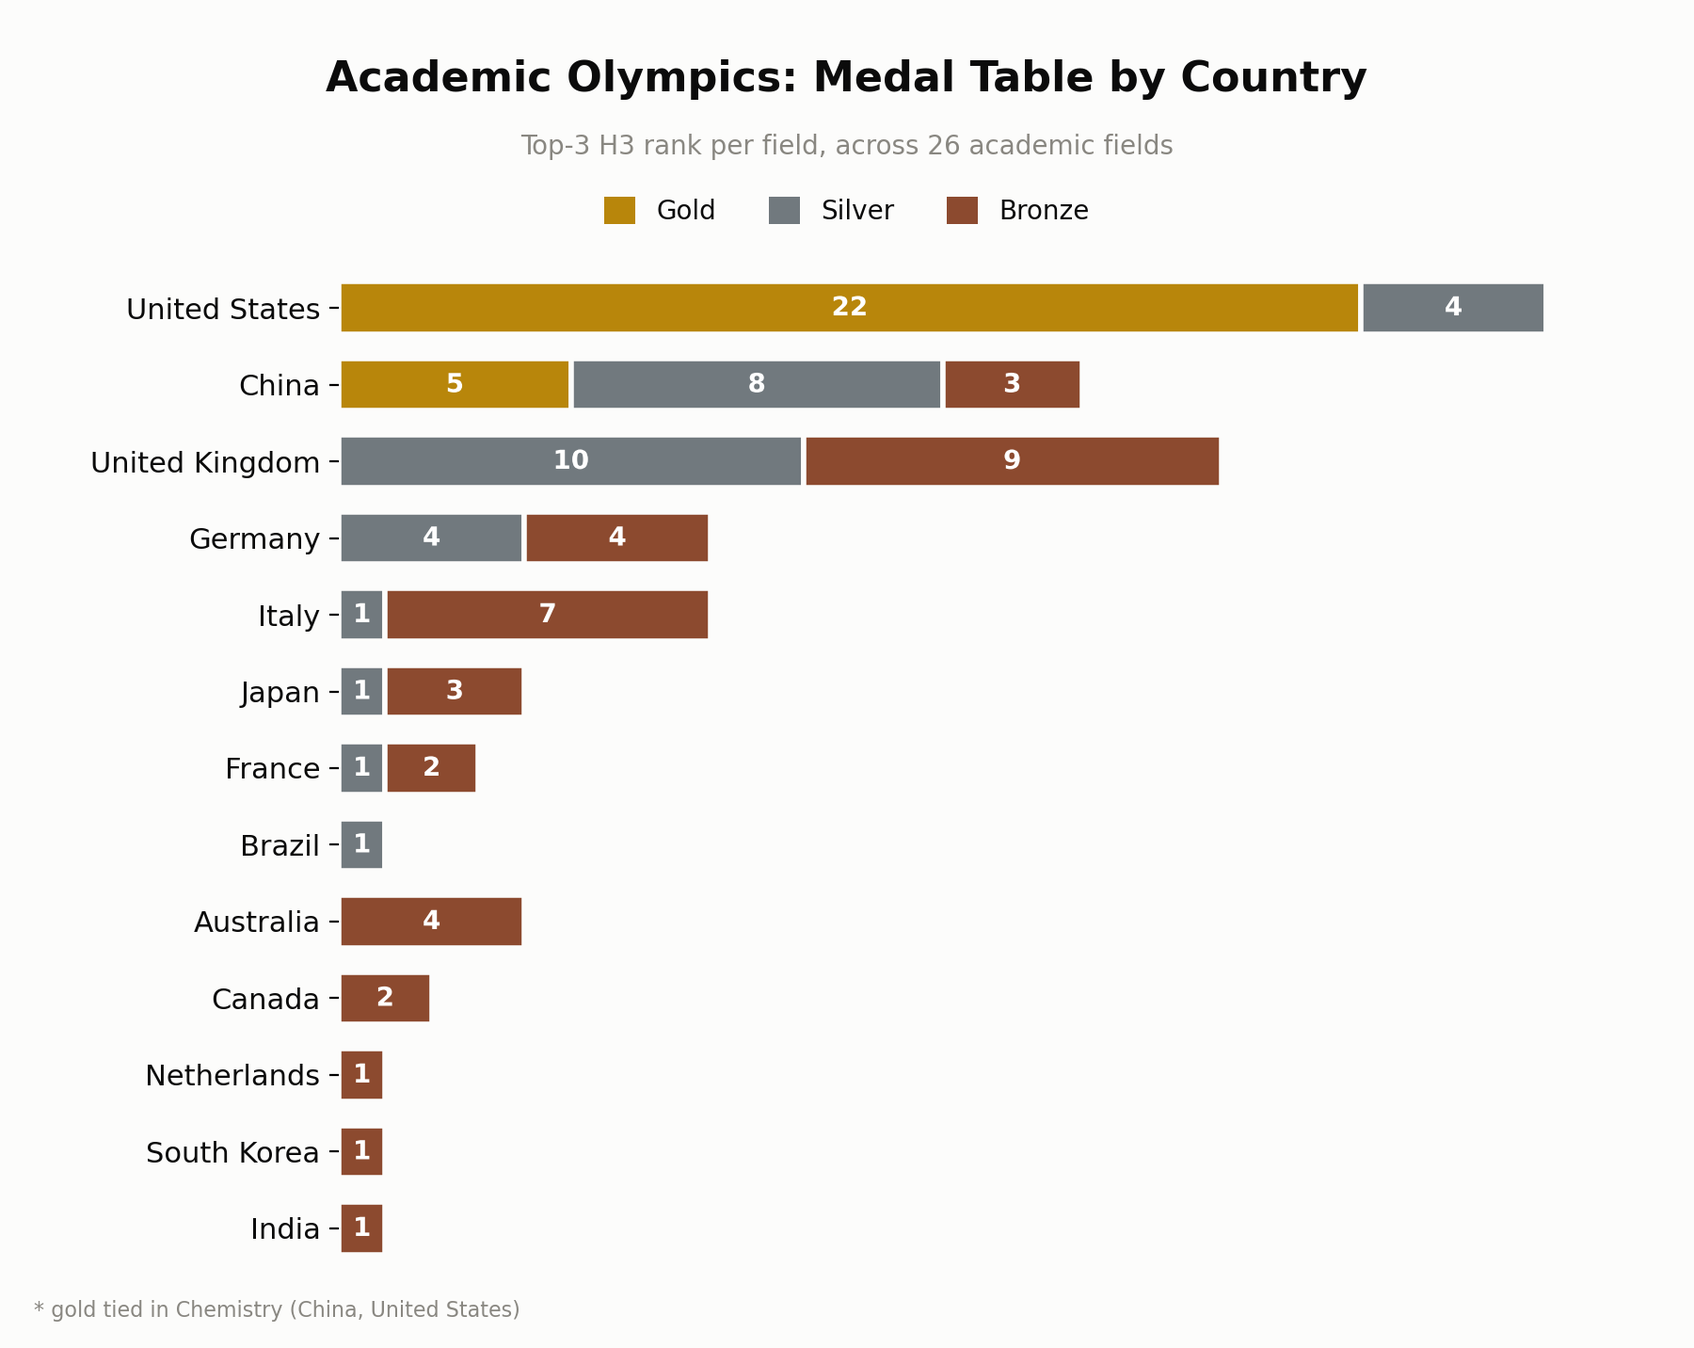
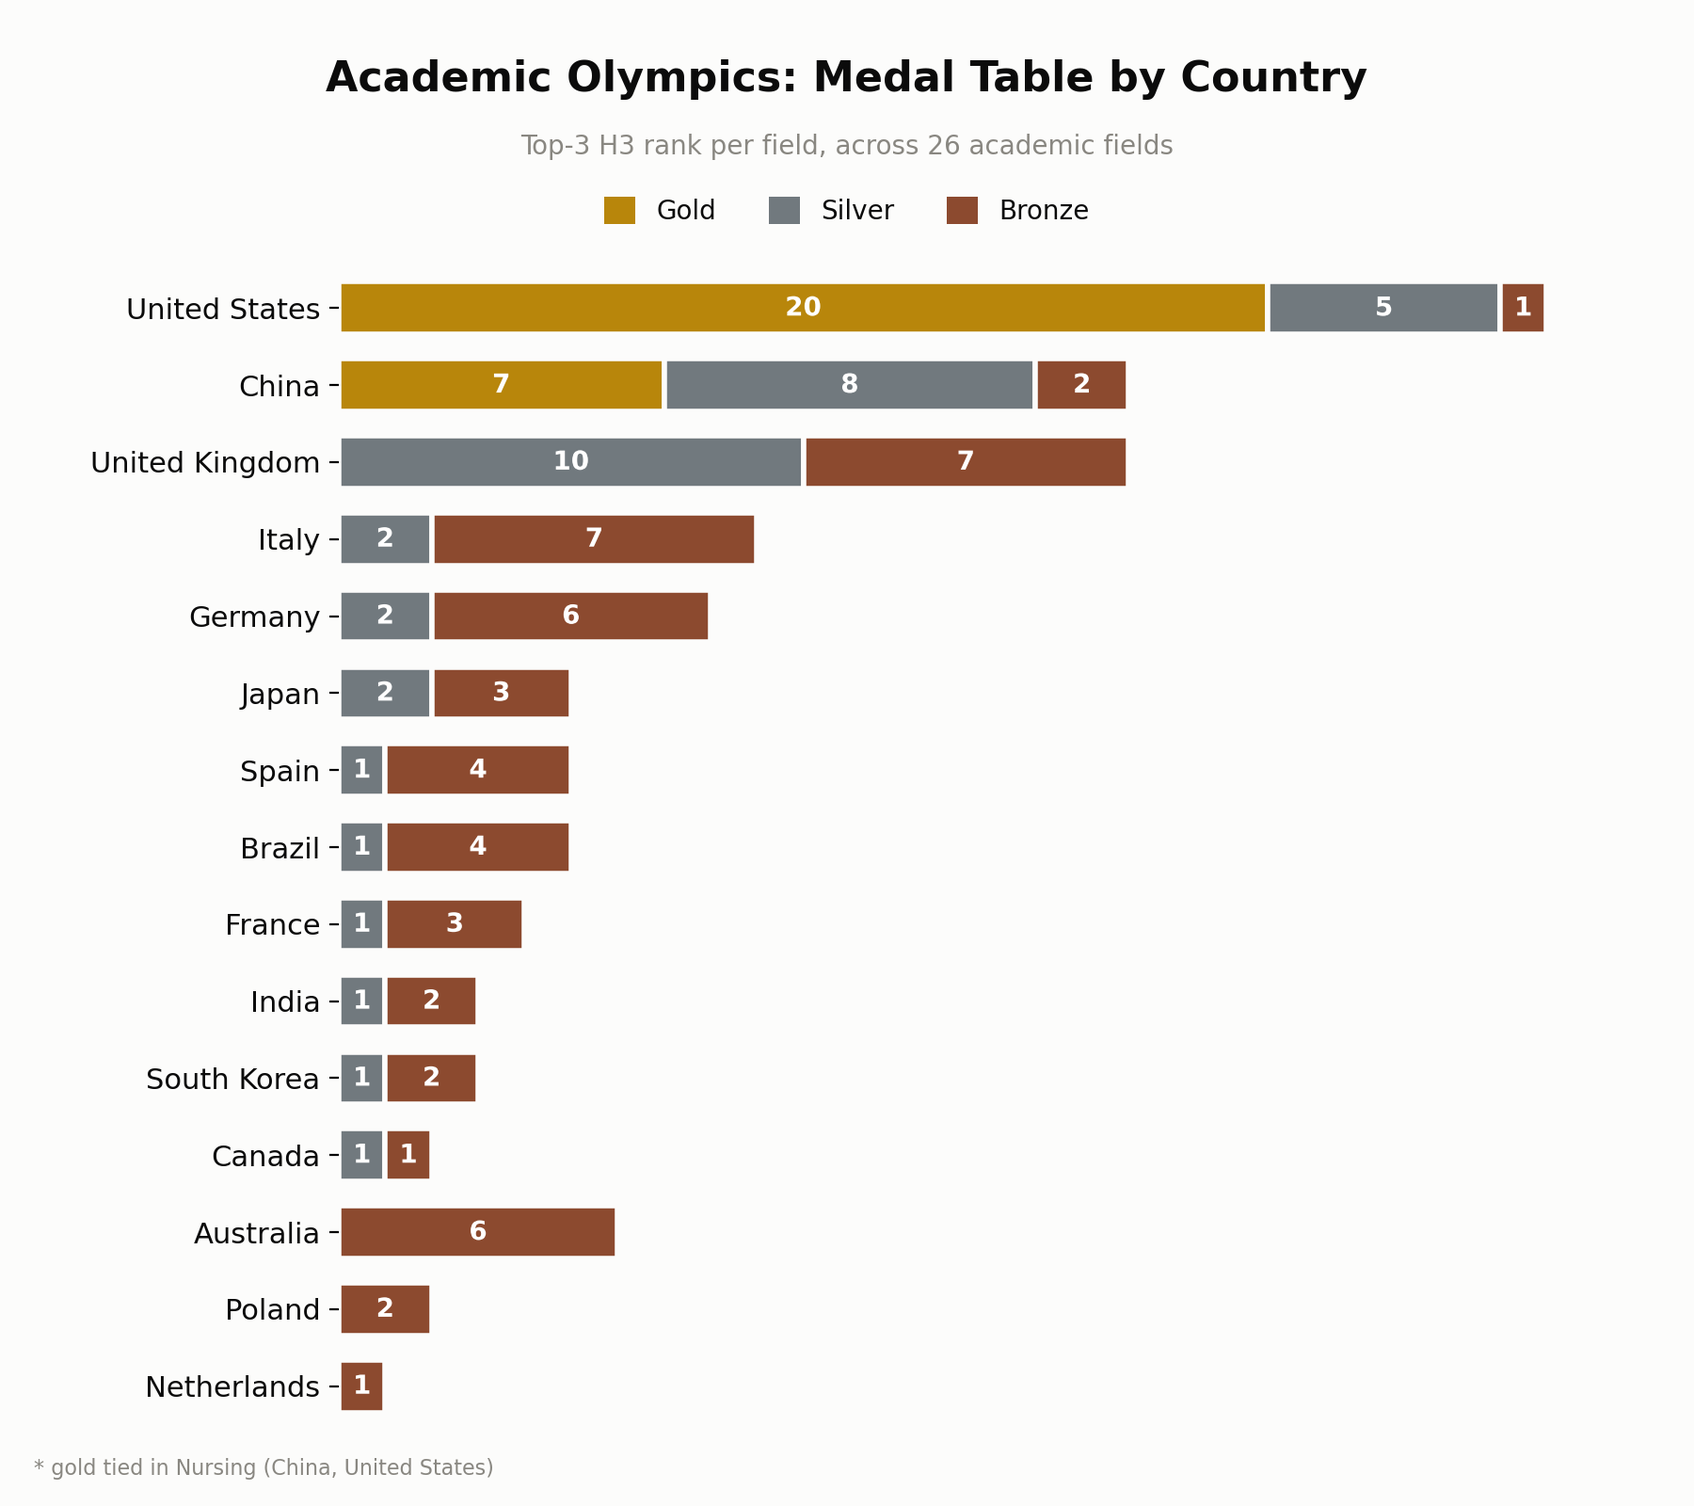
update h2 with primary affiliation results

Changed region(s): [[0.0311, 0.0307, 0.9333, 0.9832]]

diff --git a/h2.html b/h2.html
@@ -8,7 +8,7 @@
 
 	<!-- SEO Description -->
 	<meta name="author" content="Nicholas S. Selby">
-	<meta name="description" content="CMU #1 in CS but 175th overall; Wageningen #1 in Ag/Environmental Science but 172nd overall; Shenyang Pharmaceutical #1 in Pharmacology but 535th overall.">
+	<meta name="description" content="CMU #1 in CS but 159th overall; Wageningen #1 in Ag/Bio Sciences but 148th overall; Shenyang Pharmaceutical #1 in Pharmacology but 957th overall.">
 	<link rel="canonical" href="https://rupumped.github.io/h2.html">
 	<script type="application/ld+json">
 		{
@@ -30,7 +30,7 @@
 
 	<!-- Open Graph Tags -->
 	<meta property="og:title" content="The h₂ Index: A Fairer University Ranking of Research Depth by Field">
-	<meta property="og:description" content="CMU #1 in CS but 175th overall; Wageningen #1 in Ag/Environmental Science but 172nd overall; Shenyang Pharmaceutical #1 in Pharmacology but 535th overall.">
+	<meta property="og:description" content="CMU #1 in CS but 159th overall; Wageningen #1 in Ag/Bio Sciences but 148th overall; Shenyang Pharmaceutical #1 in Pharmacology but 957th overall.">
 	<meta property="og:image" content="https://rupumped.github.io/blog/h2.png">
 	<meta property="og:image:width" content="1000">
 	<meta property="og:image:height" content="1000">
@@ -344,19 +344,19 @@
 					<tr>
 						<td>1</td>
 						<td>Harvard University</td>
-						<td>137</td>
+						<td>135</td>
 						<td>1st</td>
 					</tr>
 					<tr>
 						<td>2</td>
 						<td>Stanford University</td>
-						<td>107</td>
+						<td>113</td>
 						<td>3rd</td>
 					</tr>
 					<tr>
-						<td>3</td>
+						<td>5</td>
 						<td>University of Cambridge</td>
-						<td>105</td>
+						<td>106</td>
 						<td>5th</td>
 					</tr>
 				</table>
@@ -372,72 +372,72 @@
 					</tr>
 					<tr>
 						<td>1</td>
-						<td>Harvard University</td>
-						<td>100</td>
-						<td>0</td>
+						<td>University of Antwerp</td>
+						<td>105</td>
+						<td>+2</td>
 					</tr>
 					<tr>
 						<td>2</td>
-						<td>University of Antwerp</td>
-						<td>97</td>
-						<td>12</td>
+						<td>Harvard University</td>
+						<td>100</td>
+						<td>−1</td>
 					</tr>
 					<tr>
 						<td>3</td>
-						<td>California Institute of Technology</td>
-						<td>94</td>
-						<td>12</td>
+						<td>Stanford University</td>
+						<td>100</td>
+						<td>−1</td>
 					</tr>
 				</table>
 			</div>
 			<p>Harvard is genuinely excellent, but its dominance is not universal: it misses the top 100 for Chemical Engineering, Veterinary, Energy, and Agricultural Sciences.</p>
-			<p><b>Wageningen University</b>, not a famous "elite" name in the US News sense, is #1 globally in both Agricultural Sciences and Environmental Science. It's ranked 172nd in the overall list because it's a specialized institution rather than a broad research university. The university-level ranking obscures leadership that the field-level h<sub>2</sub> reveals.</p>
-			<p><b>Shenyang Pharmaceutical University</b>: 535th overall, 1st in Pharmacology. A university you'd never see in a US News-style "Top 100" has the single deepest bench of high-impact pharmacology researchers on Earth by this measure.</p>
-			<p><b>Carnegie Mellon</b>: 175th overall, #1 in Computer Science. CMU is famous for CS but is not a broad biomedical/everything powerhouse, so it sits outside the top 100 overall, yet it has the single deepest bench of high-impact CS researchers by this metric. This is the metric correctly capturing reputation that everyone already "knows" but that the broad ranking would never surface, since CMU lacks Harvard's massive medical school tail. In contrast, US News ranks CMU at 112th overall and 14th in CS.</p>
+			<p><b>Wageningen University</b>, not a famous "elite" name in the US News sense, is #1 globally in Agricultural Sciences. It's ranked 148th in the overall list because it's a specialized institution rather than a broad research university. The university-level ranking obscures leadership that the field-level h<sub>2</sub> reveals.</p>
+			<p><b>Shenyang Pharmaceutical University</b>: 957th overall, 1st in Pharmacology. A university you'd never see in a US News-style "Top 100" has the single deepest bench of high-impact pharmacology researchers on Earth by this measure.</p>
+			<p><b>Carnegie Mellon</b>: 159th overall, #1 in Computer Science. CMU is famous for CS but is not a broad biomedical/everything powerhouse, so it sits outside the top 100 overall, yet it has the single deepest bench of high-impact CS researchers by this metric. This is the metric correctly capturing reputation that everyone already "knows" but that the broad ranking would never surface, since CMU lacks Harvard's massive medical school tail. In contrast, US News ranks CMU at 112th overall and 14th in CS.</p>
 
 			<h3>Academic Olympics</h3>
 			<img loading="lazy" class="img-center" style="max-width: min(17cm, 100%);" src="blog-posts/academic_olympics.png" alt="Stacked bar chart showing the golds, silvers, and bronzes for countries across 26 fields">
 			<p>A few things stand out:</p>
 			<ul>
-				<li><b>US wins 22 of 26 golds</b>: dominant across every humanities, social science, biomedical, and prestige-science field. Its only silvers are the four fields where China wins outright: Chemical Engineering, Energy, Engineering, Materials Science. Chemistry is a tie, so the US and China share that gold.</li>
-				<li><b>China's 5 golds are in STEM</b>: Chemical Engineering, Chemistry (tied with the US), Energy, Engineering, and Materials Science. A clean sweep of applied and materials sciences, with no medals in arts, humanities, social sciences, or business.</li>
-				<li><b>Great Britain gets 10 silvers and 9 bronzes, but zero golds</b>: consistent with the UK having world-class institutions but being outgunned by the US sheer depth everywhere.</li>
+				<li><b>US wins 20 of 26 golds</b>: dominant across humanities, social sciences, biomedical, and prestige-science fields. Its 5 silvers are the fields where China wins outright: Chemical Engineering, Chemistry, Engineering, Materials Science, and Pharmacology. The US also takes a bronze in Energy.</li>
+				<li><b>China's 7 golds span applied sciences and health</b>: Chemical Engineering, Chemistry, Energy, Engineering, Materials Science, Nursing, and Pharmacology. No golds in arts, humanities, social sciences, or business.</li>
+				<li><b>Great Britain gets 10 silvers and 7 bronzes, but zero golds</b>: consistent with the UK having world-class institutions but being outgunned by the US's sheer depth everywhere.</li>
 			</ul>
-			<p>China has already won STEM, not "catching up." Five gold medals (one shared with the US), all in applied science and engineering fields. Zero medals in arts, humanities, social sciences, or business. Materials Science, Chemical Engineering, Energy, and Engineering are led by Chinese institutions. University of Science and Technology of China and the Chinese Academy of Sciences top those fields, not Western institutions, and not the usual US News top 10. This tracks with broader trends in Chinese investment in materials/engineering research, but it's notable that it shows up this cleanly in a depth-of-talent metric, not just a publication-count metric. USTC leads three of these fields while sitting at #39 overall. That's a different pattern from CMU: not a single specialty, but a cluster of related applied-science/engineering fields where one institution has built unusually deep strength across the board. This is a present-tense fact buried under Western prestige rankings that weight the fields where the US still leads.</p>
-			<p>Brazil is <i>really</i> good at dentistry. Universidade de São Paulo leads Dentistry, with a fellow Brazilian institution (UNICAMP) in 6th. A country that appears nowhere in elite research rankings has quietly built the university with the world's deepest bench of dental researchers.</p>
+			<p>China has already won STEM and is pushing into health sciences. Seven gold medals in Chemical Engineering, Chemistry, Energy, Engineering, Materials Science, Nursing, and Pharmacology; no golds in arts, humanities, social sciences, or business. Materials Science, Chemical Engineering, Energy, Engineering, Nursing, and Pharmacology are led by Chinese institutions. The University of Chinese Academy of Sciences and the University of Science and Technology of China top those fields, not Western institutions, and not the usual US News top 10. This tracks with broader trends in Chinese investment in materials/engineering research, but it's notable that it shows up this cleanly in a depth-of-talent metric, not just a publication-count metric. UCAS leads four of these fields while sitting at #24 overall, and USTC leads Energy from #66 overall. That's a different pattern from CMU: not a single specialty, but a cluster of related applied-science/engineering fields where one institution has built unusually deep strength across the board. This is a present-tense fact buried under Western prestige rankings that weight the fields where the US still leads.</p>
+			<p>Brazil is <i>really</i> good at dentistry. Universidade de São Paulo leads Dentistry globally, with a fellow Brazilian institution (UNICAMP) in 6th. At the country level, Brazil earns silver while the US takes gold on the strength of its larger aggregate of high-ranked dental schools. A country that appears nowhere in elite research rankings has still quietly built the world's top dental institution.</p>
 			<p>Looking at the raw rankings by h<sub>3</sub>:</p>
 			<ul>
-				<li><b>Germany (49) beats the UK (47)</b> despite a similar institution count (505 vs 548), consistent with Germany's distributed research university system where excellence isn't concentrated in two flagship universities.</li>
-				<li><b>Italy (45) almost ties Japan (46)</b>, even though Italy gets there with a fraction of the institutions (229 vs 1,358). Across all countries, h<sub>3</sub> scales as a power law of institution count, with institution count alone explaining 92% of variance. By this efficiency metric, Italy ranks 1st, Australia 2nd, and Spain 3rd. The US, with 4,242 qualifying institutions, nearly 8&times; more than China and 18&times; more than Italy, falls to efficiency rank 34 despite its raw h<sub>3</sub> lead.</li>
-				<li><b>South Korea (37) outranks India (34)</b> with less than a third the institutions (358 vs 1,154). Same pattern as Italy/Japan.</li>
-				<li><b>Saudi Arabia (h<sub>3</sub>=25, only 52 institutions)</b> ranks surprisingly high for its size, likely an artifact of high-h-index researchers listing Saudi affiliations as secondary appointments in exchange for grants.</li>
+				<li><b>Germany (47) beats the UK (46)</b> despite a similar institution count (469 vs 472), consistent with Germany's distributed research university system where excellence isn't concentrated in two flagship universities.</li>
+				<li><b>Italy and Japan both score 44</b>, even though Italy gets there with a fraction of the institutions (192 vs 1,145). Across all countries, h<sub>3</sub> scales as a power law of institution count, with institution count alone explaining 90% of variance. By this efficiency metric, Italy ranks 1st, Australia 2nd, and Spain 3rd. The US, with 3,652 qualifying institutions, nearly 8&times; more than China and 19&times; more than Italy, falls to efficiency rank 37 despite its raw h<sub>3</sub> lead.</li>
+				<li><b>South Korea (35) outranks India (34)</b> with less than a third the institutions (332 vs 1,154). Same pattern as Italy/Japan.</li>
+				<li><b>Saudi Arabia (h<sub>3</sub>=23, only 52 institutions)</b> ranks surprisingly high for its size, likely an artifact of high-h-index researchers listing Saudi affiliations as secondary appointments in exchange for grants.</li>
 			</ul>
 
 			<h3>Physics & Astronomy is dominated by a few institutions; Veterinary is most distributed</h3>
-			<p>Physics & Astronomy is the most unequal field (Gini=0.60). University of Antwerp dominates at 16× the field h<sub>2</sub> mean. Decision Science and Veterinary are the most distributed (Gini=0.42). Counter-intuitively, Medicine's Gini, 0.53, is quite middle despite Harvard's 14× ratio, because Medicine has more institutions with meaningful h<sub>2</sub>.</p>
+			<p>Physics & Astronomy is the most unequal field (Gini=0.62). University of Antwerp dominates at 16× the field h<sub>2</sub> mean. Decision Sciences is the most distributed (Gini=0.43). Counter-intuitively, Medicine's Gini, 0.58, is quite middle despite Harvard's large ratio, because Medicine has more institutions with meaningful h<sub>2</sub>.</p>
 
-			<h3>UCLA has the greatest breadth</h3>
-			<p>UCLA and the University of Michigan each appear in the top 50 across more fields (20 of 26) than any other institution; UCLA leads 8 outright while Michigan leads 7. Harvard, not far behind, makes the top 10 in 13 of 26 fields (most of any institution) and has 19 in the top 50.</p>
+			<h3>Oxford has the greatest breadth</h3>
+			<p>Oxford appears in the top 50 across more fields (19 of 26) than any other institution, with Harvard and the University of Michigan each at 18. UCL leads 8 fields outright (top-10 placements) while Michigan leads 7. Stanford leads on outright field depth with 13 top-10 placements (most of any institution), narrowly ahead of Harvard's 12.</p>
 
 			<h3>The most efficient universities have very few authors</h3>
-			<p>h<sub>2</sub> scales as a power law of author count. Among universities with at least 100 authors, Bellevue University has the greatest efficiency, followed by Augustana University and Germany's Center for Behavioral Brain Sciences. Among those with at least 5,000 authors, the UC California System is the only institution in the top 100 on both raw h<sub>2</sub> and efficiency simultaneously (h<sub>2</sub> rank 73, efficiency rank 67).</p>
+			<p>h<sub>2</sub> scales as a power law of author count. Among universities with at least 100 authors, the University of Minnesota Rochester has the greatest efficiency, followed by Kettering University and the Académie Nationale de Médecine. Among those with at least 5,000 authors, the University of Antwerp is the standout: ranked 3rd overall on raw h<sub>2</sub> while also ranking 1st in efficiency within that subset.</p>
 		</section>
 
 		<section id="Limitations">
 			<h2>What This Doesn't Mean</h2>
 			<p>h<sub>2</sub> and h<sub>3</sub> aren't comparable across fields. Stanford's #1 in Decision Sciences is h<sub>2</sub>=22, built on a field of only 140,147 authors total. Medicine's #1 is h<sub>2</sub>=119, built on over 7.5 million. Decision Sciences may just be too thin an OpenAlex category to support a meaningful index at all. Compare rankings within a field all you want; comparing the raw number across fields is comparing different rulers.</p>
 			<p>Depth isn't a synonym for quality. h<sub>2</sub> and h<sub>3</sub> measure how many researchers and institutions clear a rising bar, not whether the bar is pointed at the right problems, whether the work replicates, or whether a field's citation norms inflate or deflate everyone in it equally. A country or department can have real depth by this metric and still be optimizing for something you wouldn't want more of.</p>
-			<p>The whole stack inherits OpenAlex's own errors. h<sub>1</sub> comes from OpenAlex's author disambiguation, and disambiguation fails in predictable places: common names and non-Anglophone institutions. A spot-check of 19 authors at exactly these failure points found 4 with implausibly large discrepancies against Scopus/Web of Science/Google Scholar, all in that same risk group. Because h<sub>2</sub> and h<sub>3</sub> are built directly on h<sub>1</sub>, a handful of merged identities at the right institution could nudge a ranking. That's a limitation of the underlying data, not something this analysis can fix. Treat institution- and country-level results as directionally right, not exact to the last integer.</p>
+			<p>The whole stack inherits OpenAlex's own errors. h<sub>1</sub> comes from OpenAlex's author disambiguation, and disambiguation fails in predictable places: common names and non-Anglophone institutions. A spot-check of 30 authors at exactly these failure points found 4 with implausibly large discrepancies against Scopus/Web of Science/Google Scholar, all in that same risk group. Because h<sub>2</sub> and h<sub>3</sub> are built directly on h<sub>1</sub>, a handful of merged identities at the right institution could nudge a ranking. That's a limitation of the underlying data, not something this analysis can fix. Treat institution- and country-level results as directionally right, not exact to the last integer.</p>
 		</section>
 
 		<section id="Conclusion">
 			<h2>Conclusion</h2>
 			<p>I'm adapting this into a submission for Scientometrics, and I'm even chatting with the original author, András Schubert. Before it goes to a reviewer, I'd like to get your thoughts. In addition to your own questions, I have some of my own:</p>
 			<ol>
-				<li>Egghe's power-law functional form is empirically well-supported: S<sup>1/&beta;<sub>1</sub></sup> explains 91% of the variance in h<sub>2</sub>, and R<sup>1/&beta;<sub>2</sub></sup> explains 92% of the variance in h<sub>3</sub>. But his theoretical compounding prediction fails badly: separately fitting \(\alpha_0=2.742\) and \(\alpha_1=2.996\) gives a predicted \(\beta_1=\alpha_0\alpha_1=8.21\), against the directly-measured \(\beta_1=2.963\), a 177% discrepancy. The same failure appears at the country level. The model works empirically; the underlying derivation does not. Does anyone have a theory for why?</li>
+				<li>Egghe's power-law functional form is empirically well-supported: S<sup>1/&beta;<sub>1</sub></sup> explains 91% of the variance in h<sub>2</sub>, and R<sup>1/&beta;<sub>2</sub></sup> explains 90% of the variance in h<sub>3</sub>. But his theoretical compounding prediction fails badly: separately fitting \(\alpha_0=2.454\) and \(\alpha_1=2.994\) gives a predicted \(\beta_1=\alpha_0\alpha_1=7.35\), against the directly-measured \(\beta_1=2.991\), a 146% discrepancy. The same failure appears at the country level. The model works empirically; the underlying derivation does not. Does anyone have a theory for why?</li>
 				<li>Does my field assignment of every author to a single, weightiest field penalize interdisciplinary researchers?</li>
 				<li>I'm calling it "specialist erasure" when a university with the single deepest department in a field worldwide (e.g., CMU in CS or Wageningen in Ag Sciences) disappears from broad overall rankings. Is that framing fair?</li>
-				<li>A spot check of 19 authors at OpenAlex's known failure points (e.g., common names and non-Anglophone institutions) found 4 with implausible discrepancies against Scopus/WoS/Google Scholar (and it also found large discrepancies between those three "ground truth" sources). Since h<sub>2</sub> and h<sub>3</sub> are built directly on h<sub>1</sub>, is a 4/19 hit rate at the highest-risk points problematic?</li>
+				<li>A spot check of 30 authors at OpenAlex's known failure points (e.g., common names and non-Anglophone institutions) found 4 with implausible discrepancies against Scopus/WoS/Google Scholar (and it also found large discrepancies between those three "ground truth" sources). Since h<sub>2</sub> and h<sub>3</sub> are built directly on h<sub>1</sub>, is a 4/30 hit rate at the highest-risk points problematic?</li>
 			</ol>
 		</section>
 	</main>
